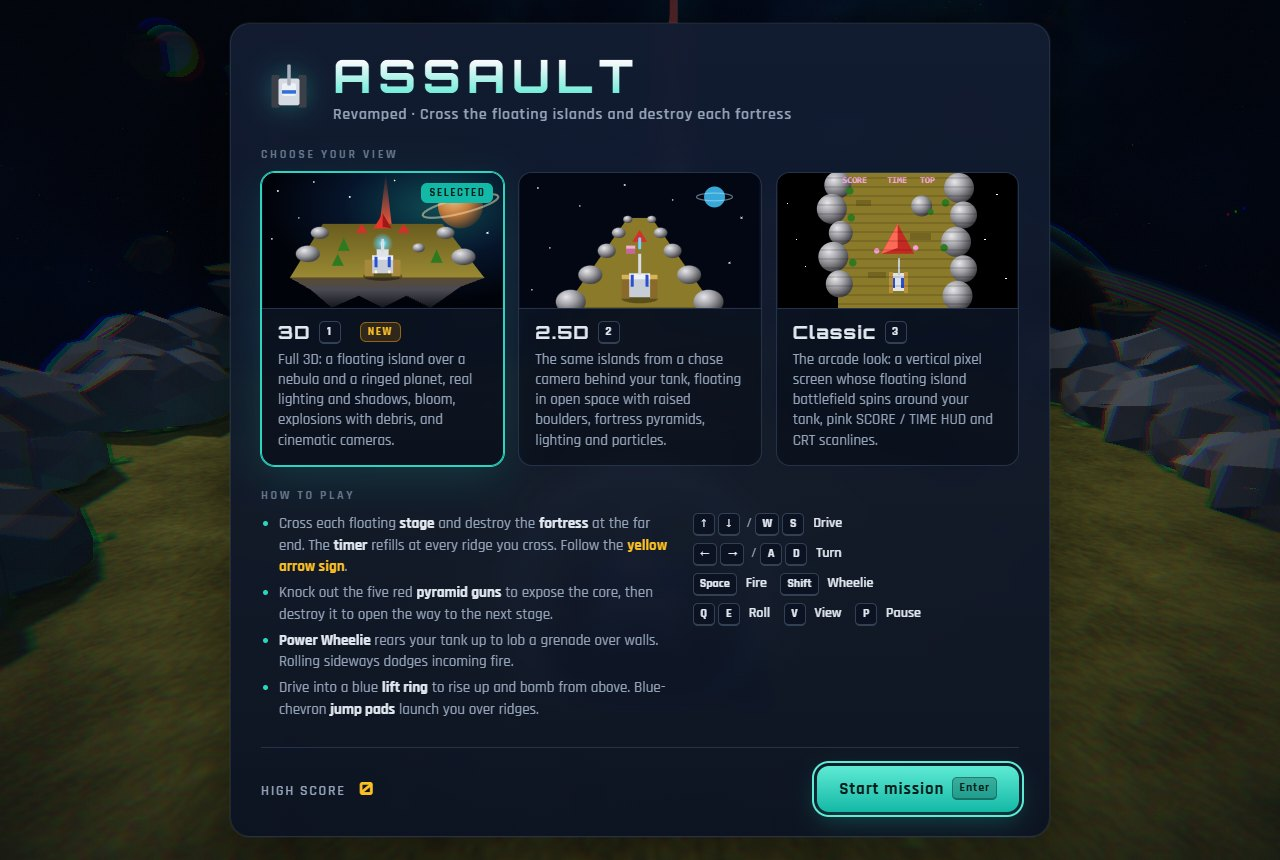
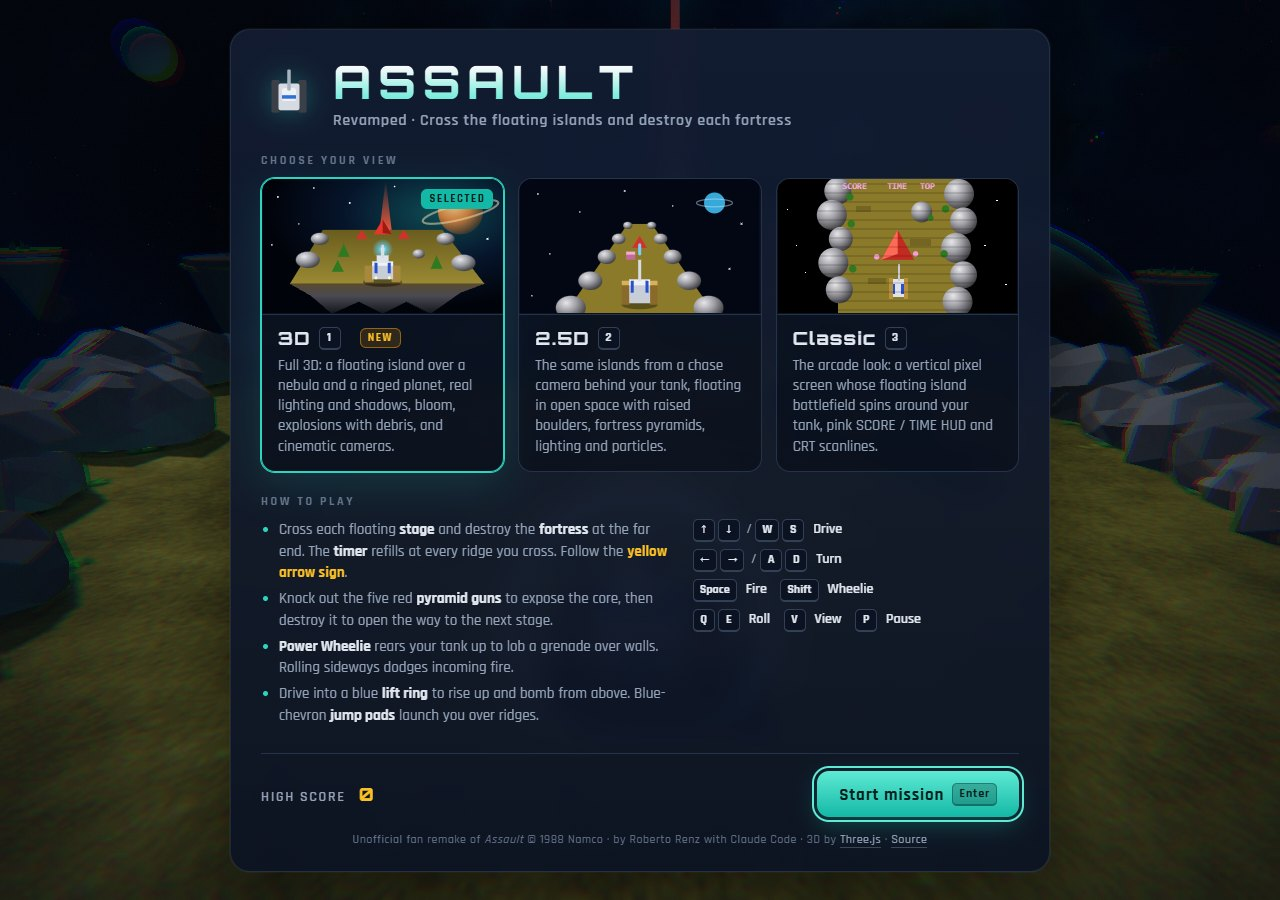
Add history, credits and the play-online link
- README: GitHub Pages play link, history of the original game and of
  this remake, and credits (Namco original, Three.js, fonts, authorship)
- Start menu: one-line credits footer linking Three.js and the source

diff --git a/index.html b/index.html
@@ -8,7 +8,7 @@
   <link rel="preconnect" href="https://fonts.googleapis.com">
   <link rel="preconnect" href="https://fonts.gstatic.com" crossorigin>
   <link href="https://fonts.googleapis.com/css2?family=Orbitron:wght@600;700;800&family=Press+Start+2P&family=Rajdhani:wght@500;600;700&display=swap" rel="stylesheet">
-  <link rel="stylesheet" href="css/style.css?v=4">
+  <link rel="stylesheet" href="css/style.css?v=5">
 </head>
 <body data-mode="modern">
   <canvas id="screen" aria-label="Assault game screen"></canvas>
@@ -172,6 +172,7 @@
         <div class="hi">High score <b id="menuHi">0</b></div>
         <button class="btn primary" id="startBtn" data-autofocus>Start mission <span class="kbd light">Enter</span></button>
       </footer>
+      <p class="credits">Unofficial fan remake of <i>Assault</i> &copy; 1988 Namco &middot; by Roberto Renz with Claude Code &middot; 3D by <a href="https://threejs.org" target="_blank" rel="noopener">Three.js</a> &middot; <a href="https://github.com/robertorenz/assault" target="_blank" rel="noopener">Source</a></p>
     </div>
   </div>
 

diff --git a/css/style.css b/css/style.css
@@ -352,3 +352,13 @@ h1 {
   vertical-align: middle;
 }
 @media (max-width: 720px) { .mode-name .new { display: none; } }
+
+.credits {
+  margin: 14px 0 0;
+  text-align: center;
+  font-size: 12px;
+  letter-spacing: .04em;
+  color: var(--dim);
+}
+.credits a { color: var(--muted); text-decoration: none; border-bottom: 1px solid rgba(148, 163, 184, .35); }
+.credits a:hover { color: var(--teal-3); border-color: var(--teal-3); }

diff --git a/README.md b/README.md
@@ -2,6 +2,8 @@
 
 A revamped remake of **Namco's 1988 arcade *Assault***, the top-down tank shooter whose whole battlefield rotates around your tank. It's written in plain HTML5 canvas, WebGL (Three.js, vendored) and JavaScript, with no build step and no image or audio files. Every map tile, sprite, 3D model and sound effect is generated in code.
 
+**▶ [Play it in your browser](https://robertorenz.github.io/assault/)**
+
 ![Start screen with the three view choices](docs/screenshots/menu.jpg)
 
 Each stage is a floating island in open space, edged by puffy rock cliffs and foliage, with a stone pentagon fortress at the far end. The look follows the arcade original: a vertical screen, the pink `SCORE / TIME / TOPSCORE` HUD, a white-blue-gold tank, pink enemy tanks and bullets, and red pyramid guns around a red core.
@@ -24,7 +26,9 @@ Each stage theme has its own palette. Stage 3, the sand lakes, has pink rock cli
 
 ## Play
 
-Serve the folder over HTTP and open it in a browser:
+**Play online: https://robertorenz.github.io/assault/**
+
+To run it locally, serve the folder over HTTP and open it in a browser:
 
 ```bash
 python -m http.server 8765
@@ -83,3 +87,27 @@ All three renderers read the same `Game` state and consume the same event stream
 Stages are generated from a seed, so each stage number always produces the same map. The generator checks that every map is passable from start to fortress, and builds a distance map that drives both the exit arrow and the attract-mode autopilot.
 
 The high score, the last chosen view and the mute setting are saved in `localStorage`.
+
+## History
+
+### The original
+
+*Assault* is a tank shooter released to arcades by **Namco in 1988**. It ran on Namco's System 2 board, and its centrepiece was hardware rotation and scaling: the whole playfield turns around your tank instead of the tank turning on a fixed map. You drove the tank with tread-style controls. Its moves were a sideways roll to dodge fire and the Power Wheelie, which lobbed a grenade over walls. It played on a vertical monitor, crossing timed stretches of terrain toward a fortress at the end of each stage.
+
+### This remake
+
+| Date | Version | Changes |
+|------|---------|---------|
+| 2026-10-04 | First build | Started as a remake of the wrong game: an Atari-style 1983 shooter, with Classic and 2.5D views over a shared fixed-step simulation, synthesized audio, keyboard / gamepad / touch input and modal screens. |
+| 2026-10-04 | Rebuilt as *Assault* | Re-targeted at Namco's 1988 arcade game. Added a rotating battlefield, tank controls with rolls and the Power Wheelie, lift zones, jump pads, timed areas, a fortress with guns and a core, a seeded stage generator, the exit arrow and an attract-mode autopilot. |
+| 2026-10-04 | Arcade look | Rebuilt from reference frames of the original. Stages became floating islands with puffy rock cliffs and five themes. Added the pentagon fortress with five pyramid guns, a vertical 224×288 Classic screen with the pink arcade HUD, and the two-digit timer that refills at each ridge. |
+| 2026-10-04 | 3D view | Added a full WebGL view (Three.js) with lighting, shadows, bloom, debris and a minimap. The menu now offers 3D / 2.5D / Classic. Added the `?demo=` screenshot mode and README screenshots. |
+| 2026-10-04 | Online | Published on GitHub Pages at https://robertorenz.github.io/assault/. |
+
+## Credits
+
+- **Original game:** *Assault* © 1988 Namco (now Bandai Namco Entertainment). This is an unofficial, non-commercial fan remake made as a tribute. It uses none of the original's code, graphics or sound, and it isn't affiliated with or endorsed by Bandai Namco. *Assault* and Namco are trademarks of their respective owners.
+- **Remake:** Roberto Renz, built with [Claude Code](https://claude.com/claude-code) (Anthropic).
+- **3D engine:** [Three.js](https://threejs.org) r147, including the EffectComposer and UnrealBloomPass add-ons. © 2010–2022 three.js authors, MIT License (see `js/vendor/three/LICENSE`).
+- **Fonts:** [Orbitron](https://fonts.google.com/specimen/Orbitron) (Matt McInerney), [Press Start 2P](https://fonts.google.com/specimen/Press+Start+2P) (CodeMan38) and [Rajdhani](https://fonts.google.com/specimen/Rajdhani) (Indian Type Foundry), served by Google Fonts under the SIL Open Font License.
+- **Art and audio:** every tile, sprite, 3D model and sound effect is generated in code at runtime.
